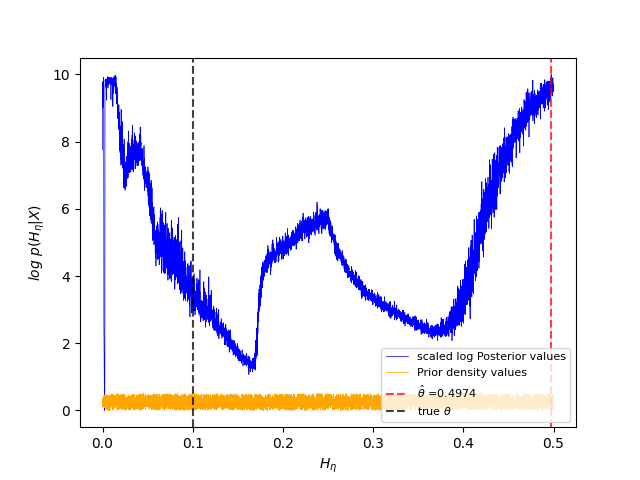
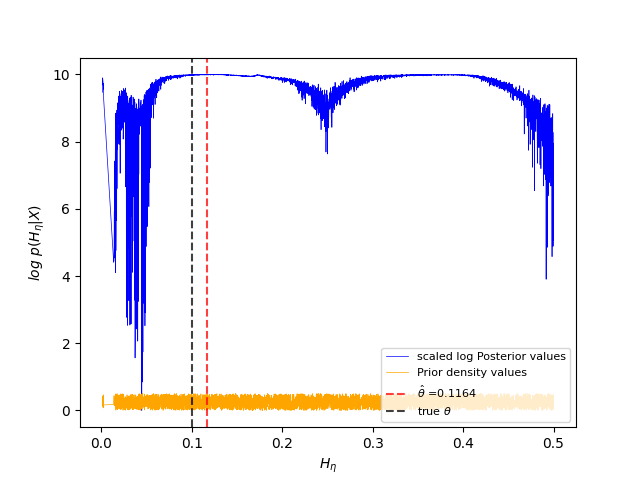
empirical appl scaling prep

diff --git a/main.py b/main.py
@@ -236,7 +236,7 @@ start_time = time.time()
 
 # Approximate the posterior distr. of each parameter using the simulated data and given empirical data 
 # by default, mdns are used. Set kde = True to use kde instead 
-posterior, log_posterior, prior_probabilities, Likelihoods, log_Likelihoods = BAM_posterior.approximate_posterior(grid_size, path = path, t_zero=500, kde=True)
+#posterior, log_posterior, prior_probabilities, Likelihoods, log_Likelihoods = BAM_posterior.approximate_posterior(grid_size, path = path, t_zero=500, kde=True, empirical = False)
 
 # choose folder to save posterior and prior values: mdn
 """np.save('estimation/BAM/final_run/HP_filter/log_posterior_identification', log_posterior)
@@ -246,11 +246,11 @@ np.save('estimation/BAM/final_run/HP_filter/Likelihoods_identification', Likelih
 np.save('estimation/BAM/final_run/HP_filter/log_Likelihoods_identification', log_Likelihoods)"""
 
 # saving posterior and prior values: kde
-np.save('estimation/BAM/Theta_ordered/final_run/kde/HP_filter/log_posterior_identification', log_posterior)
+"""np.save('estimation/BAM/Theta_ordered/final_run/kde/HP_filter/log_posterior_identification', log_posterior)
 np.save('estimation/BAM/Theta_ordered/final_run/kde/HP_filter/posterior_identification', posterior)
 np.save('estimation/BAM/Theta_ordered/final_run/kde/HP_filter/prior_identification', prior_probabilities)
 np.save('estimation/BAM/Theta_ordered/final_run/kde/HP_filter/Likelihoods_identification', Likelihoods)
-np.save('estimation/BAM/Theta_ordered/final_run/kde/HP_filter/log_Likelihoods_identification', log_Likelihoods)
+np.save('estimation/BAM/Theta_ordered/final_run/kde/HP_filter/log_Likelihoods_identification', log_Likelihoods)"""
 
 print("")
 print("--- %s minutes ---" % ((time.time() - start_time)/60))
@@ -296,11 +296,11 @@ Likelihoods = np.load('estimation/BAM/Theta_ordered/final_run/kde/Likelihoods_id
 log_Likelihoods = np.load('estimation/BAM/Theta_ordered/final_run/kde/log_Likelihoods_identification.npy')"""
 
 # load approximations regarding ordered Theta sample: HP filter: kde
-"""log_posterior = np.load('estimation/BAM/Theta_ordered/final_run/kde/HP_filter/log_posterior_identification.npy')
+log_posterior = np.load('estimation/BAM/Theta_ordered/final_run/kde/HP_filter/log_posterior_identification.npy')
 posterior = np.load('estimation/BAM/Theta_ordered/final_run/kde/HP_filter/posterior_identification.npy')
 prior_probabilities = np.load('estimation/BAM/Theta_ordered/final_run/kde/HP_filter/prior_identification.npy')
 Likelihoods = np.load('estimation/BAM/Theta_ordered/final_run/kde/HP_filter/Likelihoods_identification.npy')
-log_Likelihoods = np.load('estimation/BAM/Theta_ordered/final_run/kde/HP_filter/log_Likelihoods_identification.npy')"""
+log_Likelihoods = np.load('estimation/BAM/Theta_ordered/final_run/kde/HP_filter/log_Likelihoods_identification.npy')
 
 # load approximations regarding UNordered Theta sample: MDN, no filter
 """log_posterior = np.load('estimation/BAM/final_run/log_posterior_identification.npy')
@@ -310,11 +310,11 @@ Likelihoods = np.load('estimation/BAM/final_run/Likelihoods_identification.npy')
 log_Likelihoods = np.load('estimation/BAM/final_run/log_Likelihoods_identification.npy')"""
 
 # load approximations regarding UNordered Theta sample: MDN, HP FILTER
-log_posterior = np.load('estimation/BAM/final_run/HP_filter/log_posterior_identification.npy')
+"""log_posterior = np.load('estimation/BAM/final_run/HP_filter/log_posterior_identification.npy')
 posterior = np.load('estimation/BAM/final_run/HP_filter/posterior_identification.npy')
 prior_probabilities = np.load('estimation/BAM/final_run/HP_filter/prior_identification.npy')
 Likelihoods = np.load('estimation/BAM/final_run/HP_filter/Likelihoods_identification.npy')
-log_Likelihoods = np.load('estimation/BAM/final_run/HP_filter/log_Likelihoods_identification.npy')
+log_Likelihoods = np.load('estimation/BAM/final_run/HP_filter/log_Likelihoods_identification.npy')"""
 
 # parameter names
 para_names = [r'$H_{\eta}$', r'$H_{\rho}$', r'$H_{\phi}$', r'$H_{\xi}$']
@@ -325,9 +325,9 @@ para_names = [r'$H_{\eta}$', r'$H_{\rho}$', r'$H_{\phi}$', r'$H_{\xi}$']
 #plot_name= 'Theta_ordered_5000_HP_filter'
 #plot_name= 'Theta_ordered_5000_log_transform'
 #plot_name= 'Theta_ordered_5000_KDE'
-#plot_name = 'Theta_ordered_5000_KDE_HP_filter'
+plot_name = 'Theta_ordered_5000_KDE_HP_filter'
 #plot_name = 'Theta_NOT_ordered_5000_MDN'
-plot_name = 'Theta_NOT_ordered_5000_MDN_HP_filter'
+#plot_name = 'Theta_NOT_ordered_5000_MDN_HP_filter'
 
 # path to save the plots
 #plot_path = 'plots/posterior/BAM/Theta_ordered/final_run/NOT_div_by_std/'
@@ -335,9 +335,9 @@ plot_name = 'Theta_NOT_ordered_5000_MDN_HP_filter'
 #plot_path = 'plots/posterior/BAM/Theta_ordered/final_run/hp_filter/'
 #plot_path = 'plots/posterior/BAM/Theta_ordered/final_run/log_transform/'
 #plot_path = 'plots/posterior/BAM/Theta_ordered/final_run/kde/'
-#plot_path = 'plots/posterior/BAM/Theta_ordered/final_run/kde/HP_filter/'
+plot_path = 'plots/posterior/BAM/Theta_ordered/final_run/kde/HP_filter/'
 #plot_path = 'plots/posterior/BAM/NOT_ordered/'
-plot_path = 'plots/posterior/BAM/NOT_ordered/HP_filter/'
+#plot_path = 'plots/posterior/BAM/NOT_ordered/HP_filter/'
 
 
 # plot posteriors for ordered Theta
@@ -381,11 +381,12 @@ MC = 20
 BAM_model = BAM_mc(T=1000, MC = MC, Nh=500, Nf=100, Nb=10, plots=False, csv=False) 
 bounds_BAM = np.transpose(np.array([ [0,0.5], [0,0.5], [0,0.5], [0,0.25] ]))
 
-# load empirical data
+# load empirical data and convert np array  
 GDP_US = pd.read_csv("data/GDPC1.csv")
+GDP_US_array = np.array(GDP_US)[:,1]
 
-# initialize the estimation method: apply HP filter onto to np array converted GDP
-BAM_posterior = sample_posterior(model = BAM_model, bounds = bounds_BAM, data_obs=np.array(GDP_US)[:,1], filter=True)
+# initialize the estimation method: apply HP filter 
+BAM_posterior = sample_posterior(model = BAM_model, bounds = bounds_BAM, data_obs=GDP_US_array, filter=True)
 
 grid_size = 5000
 np.random.seed(123)
@@ -396,7 +397,7 @@ print('--------------------------------------')
 print("2) Estimation block: Approximating Likelihood and evaluating the posterior for each parameter")
 start_time = time.time()
 path = 'data/simulations/BAM_simulations/latin_hypercube' # not ordered Theta 
-posterior, log_posterior, prior_probabilities, Likelihoods, log_Likelihoods = BAM_posterior.approximate_posterior(grid_size, path = path, t_zero=500, kde=False)
+posterior, log_posterior, prior_probabilities, Likelihoods, log_Likelihoods = BAM_posterior.approximate_posterior(grid_size, path = path, t_zero=500, kde=False, empirical = True)
 
 # choose folder to save posterior and prior values: mdn
 np.save('estimation/BAM/empirical/log_posterior_identification', log_posterior)

diff --git a/estimation/sampling.py b/estimation/sampling.py
@@ -138,7 +138,7 @@ class sample_posterior:
     """
     2) Estimation block: compute the likelihood and the posterior probability of each parameter (combination) of the abm model by delli gatti.
     """
-    def approximate_posterior(self, grid_size, path, t_zero, kde):
+    def approximate_posterior(self, grid_size, path, t_zero, kde, empirical):
             
         # apply filter to observed time series
         if self.filter:
@@ -175,7 +175,7 @@ class sample_posterior:
         """
         # without parallised computing, mostly used for testing 
         # for i in tqdm(range(grid_size)):
-        """for i in range(grid_size):
+        for i in range(grid_size):
             
             # choose a good simulation for testing
             i = 11
@@ -192,7 +192,12 @@ class sample_posterior:
             #simulation_short = np.log(simulation[simulation.shape[0]-len(self.data_obs) : simulation.shape[0],])
             
             # use values from t_0 onwards
-            simulation_short = simulation[t_zero : simulation.shape[0],:]
+            if empirical:
+                # scale the simulated data by 100 for the empirical applicatin
+                simulation_short = simulation[t_zero : simulation.shape[0],:] * 100
+            
+            else:
+                simulation_short = simulation[t_zero : simulation.shape[0],:]
 
 
             # apply filter to simulated time series
@@ -208,8 +213,7 @@ class sample_posterior:
                     simulation_short_filtered[:,i] = components[0] 
                     
                 # use filtered time series from now on forward
-                # simulation_short = simulation_short_filtered
-                simulation_short = simulation_short_filtered * 10
+                simulation_short = simulation_short_filtered
             
             # apply log transformation if no filter is used:
             else:
@@ -245,7 +249,7 @@ class sample_posterior:
             log_posterior[i,:] = ll + np.log(marginal_priors[i,:])
             
             # bei i = 999: L = 1.1623265223664991e-275 => * 275
-            print("")"""
+            print("")
             
 
         # using parallel computing
@@ -257,8 +261,13 @@ class sample_posterior:
             
             # neglect the first simlated values for each mc column to ensure convergence of the major report variables 
             # use values from t_0 onwards
-            simulation_short = simulation[t_zero : simulation.shape[0],:]
-
+            if empirical:
+                # scale the simulated data by 100 for the empirical applicatin
+                simulation_short = simulation[t_zero : simulation.shape[0],:] * 100
+            
+            else:
+                simulation_short = simulation[t_zero : simulation.shape[0],:]
+            
             # apply filter to simulated time series
             if self.filter:
                 simulation_short_filtered = np.zeros(simulation_short.shape)
